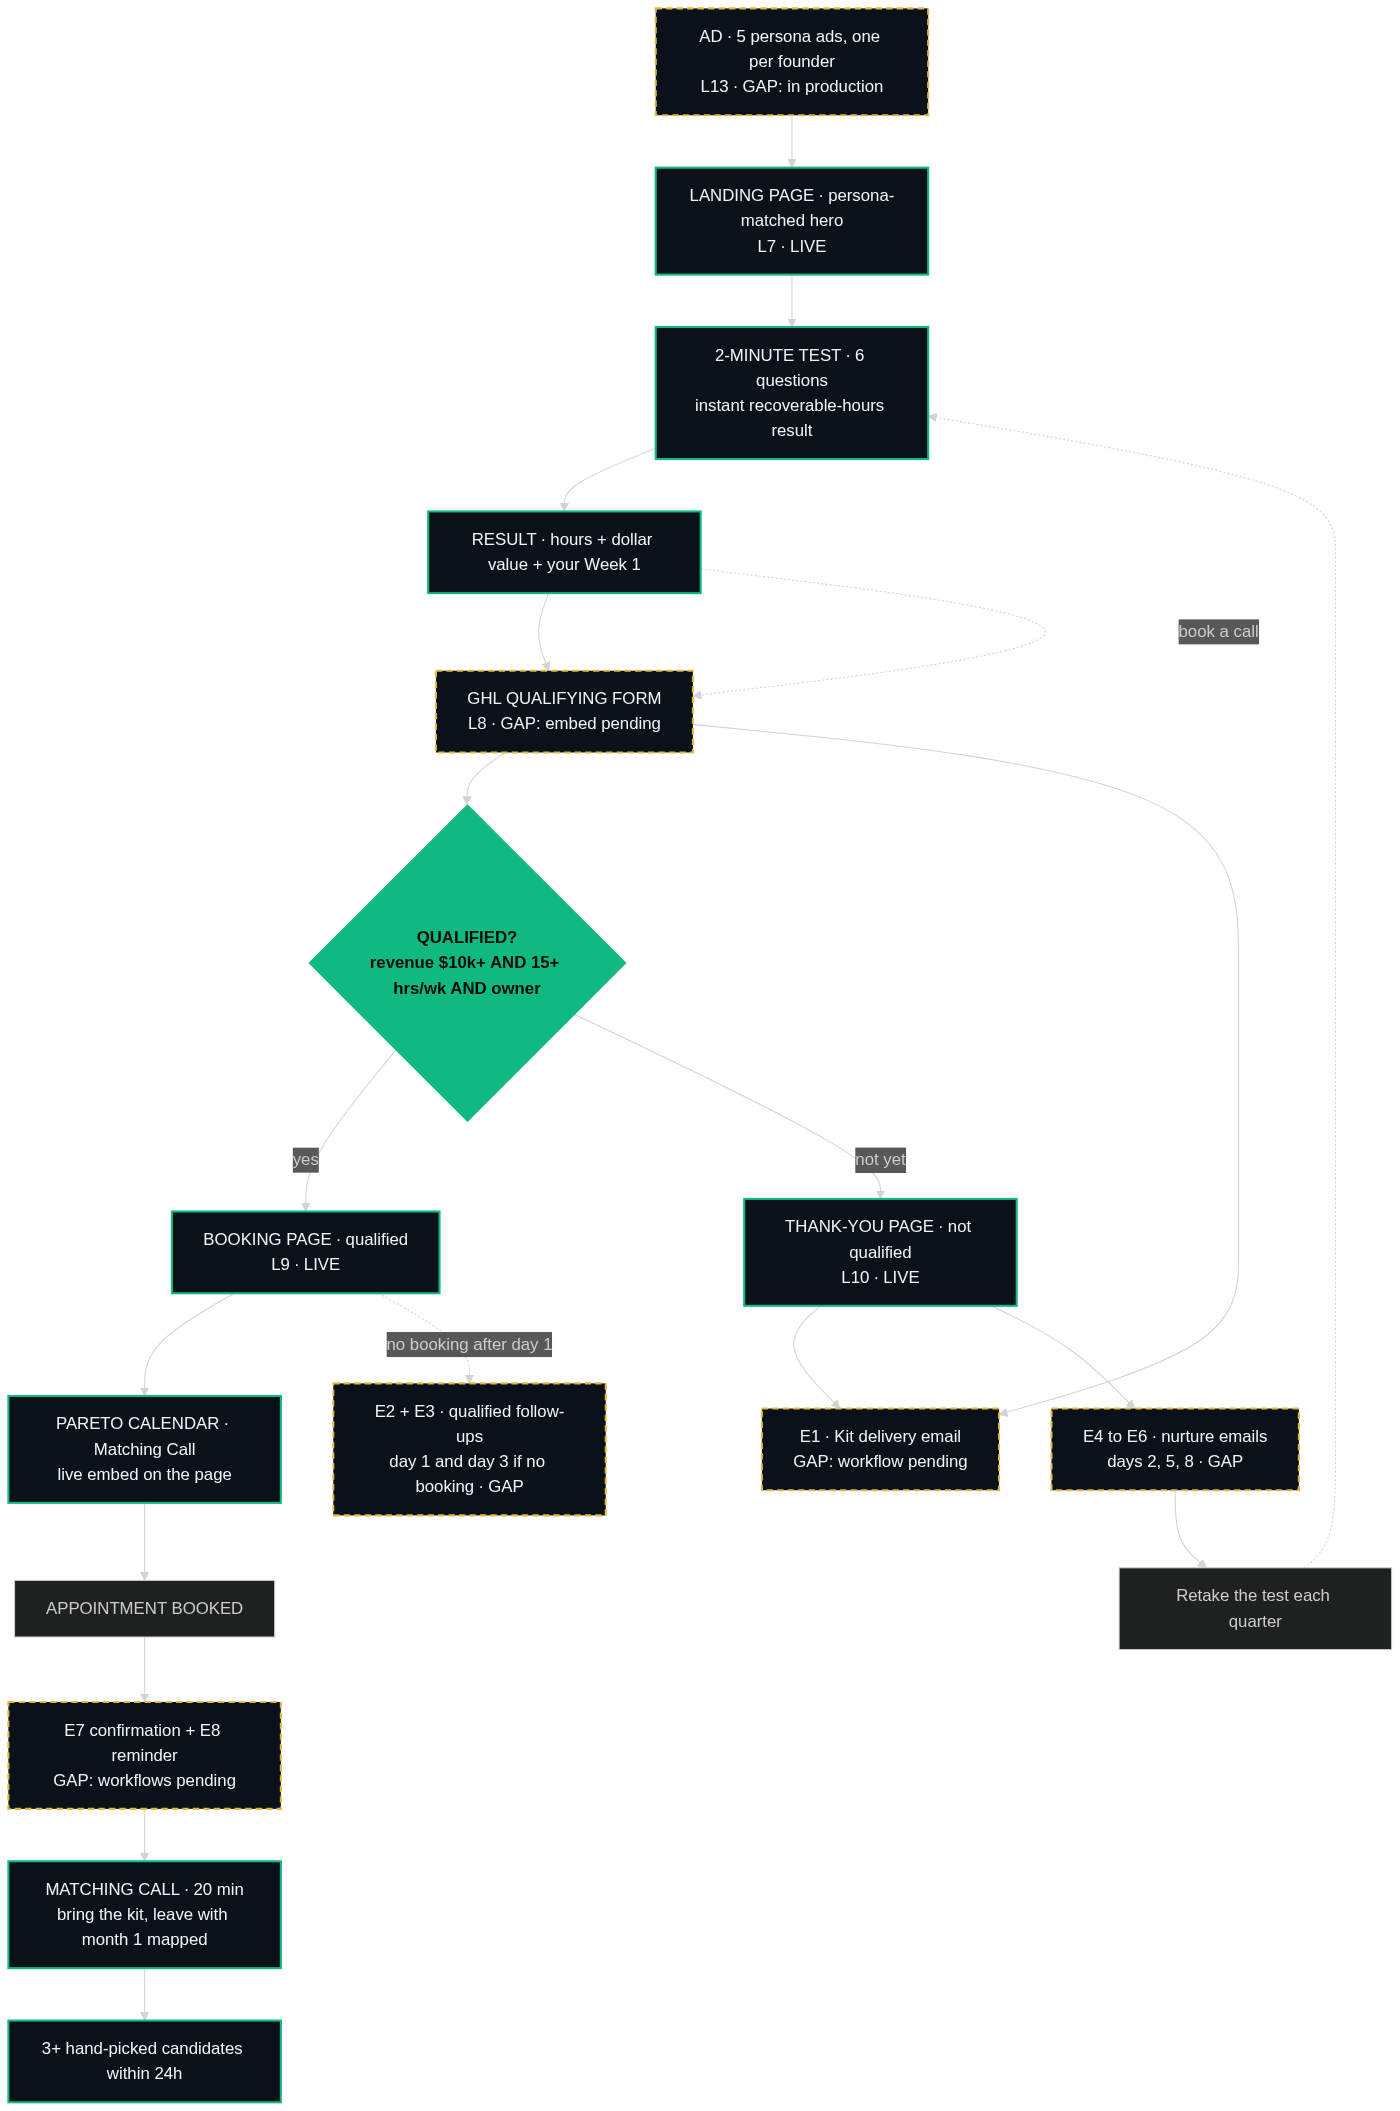
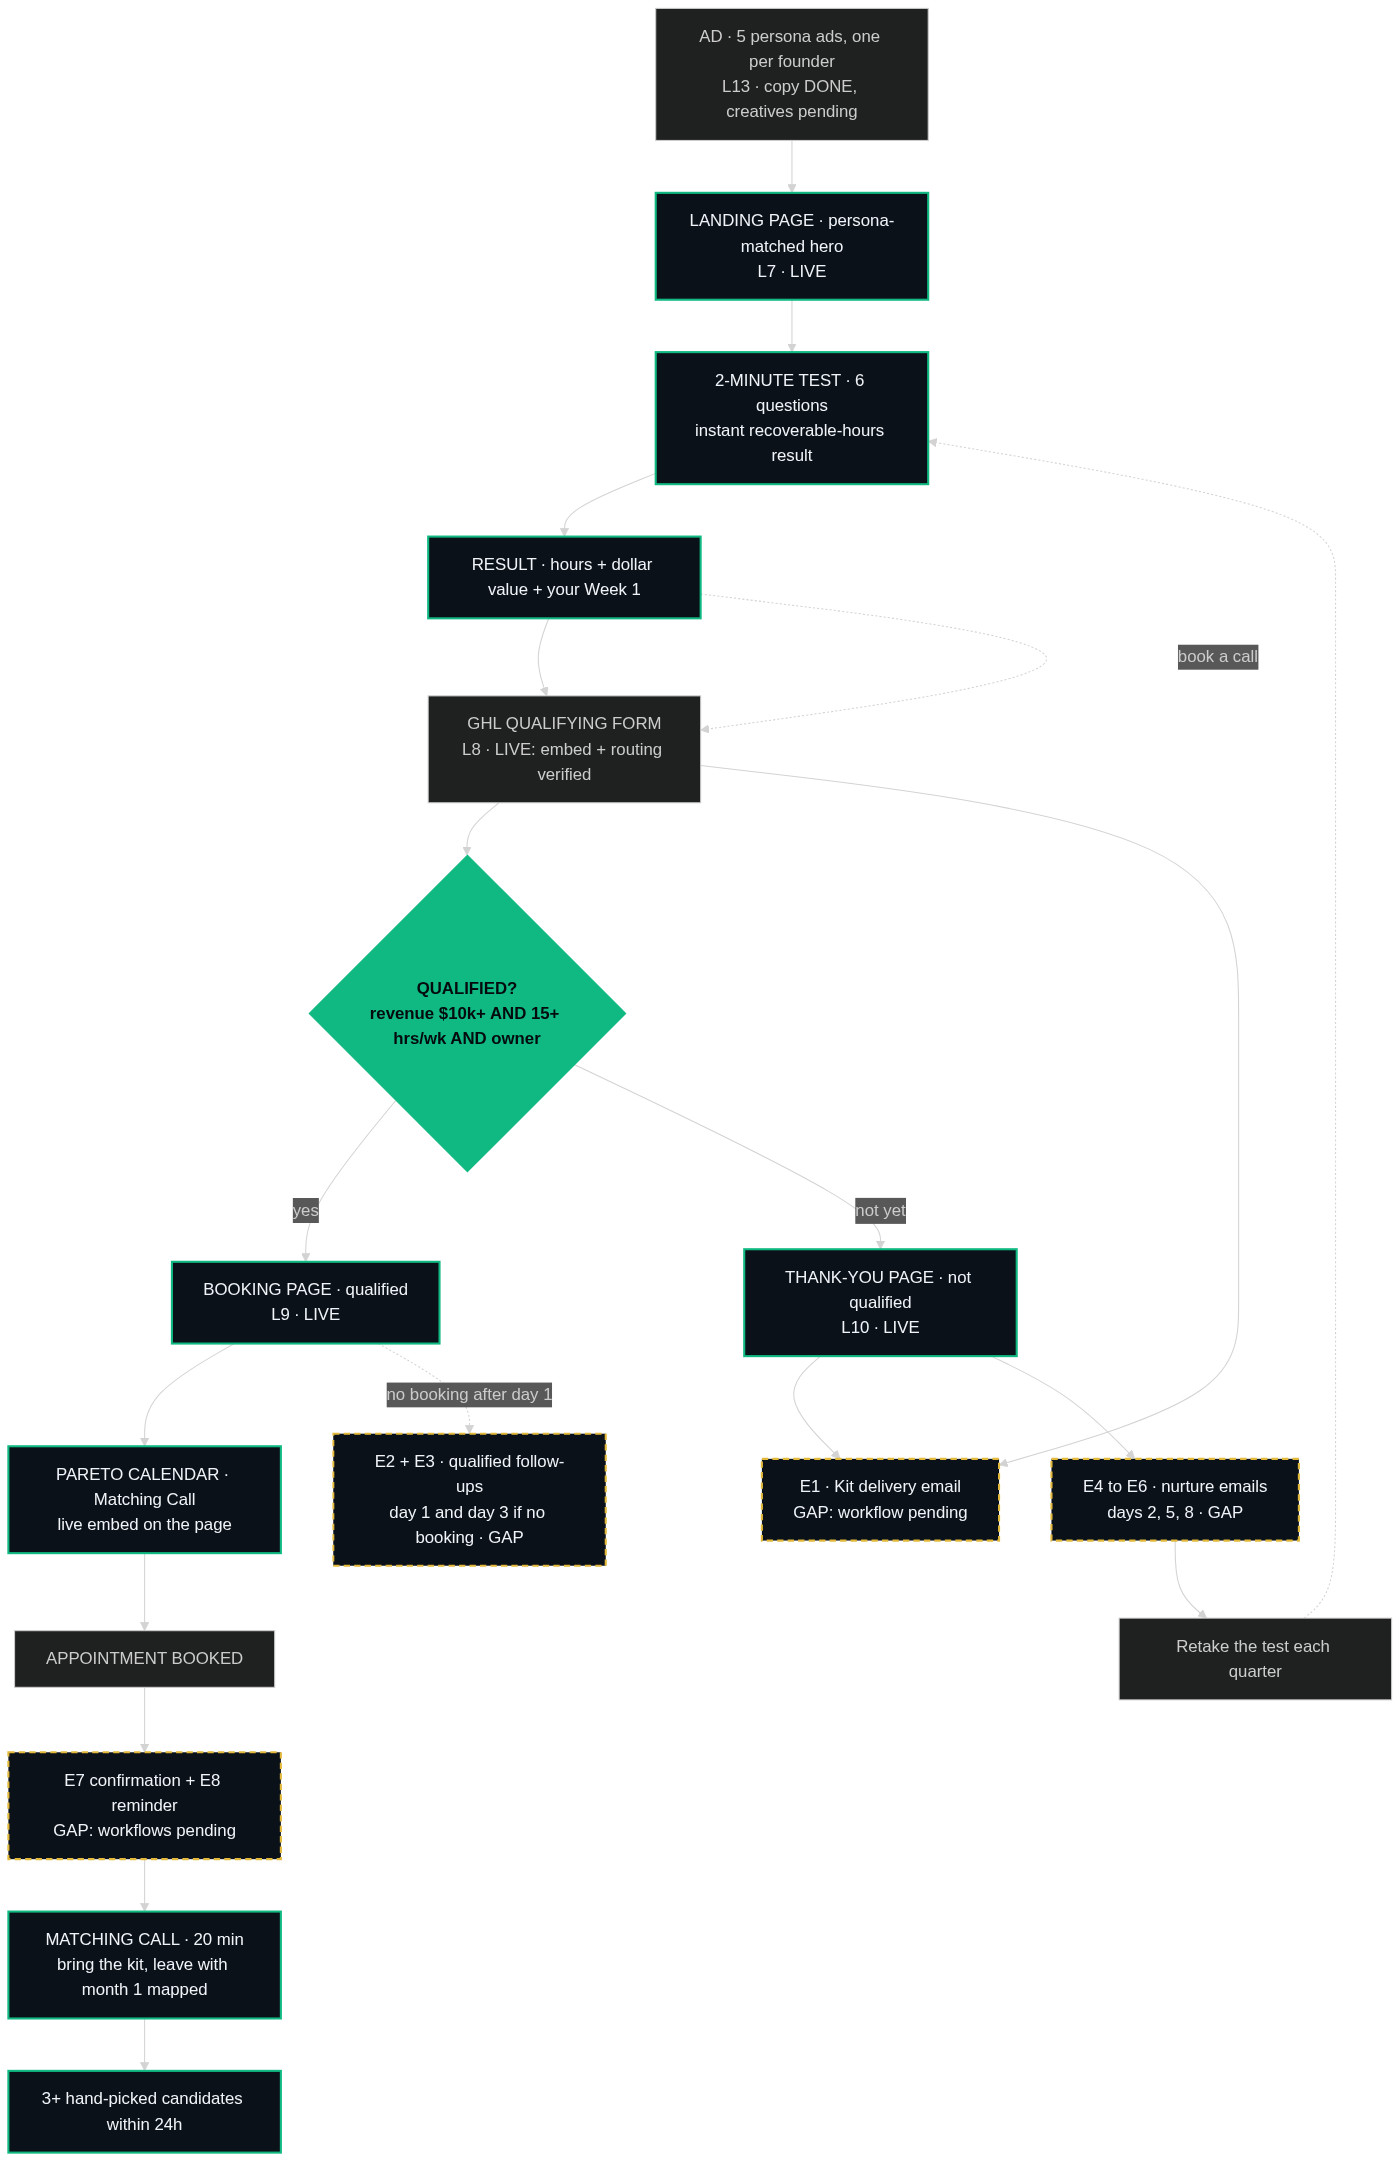
Business Map: statuses current (L8 live, L13 copy done)

diff --git a/project-docs/business-map.md b/project-docs/business-map.md
@@ -15,11 +15,11 @@ Gaps are marked honestly: 🚧 means built or specced but not live yet, nothing 
 
 ```mermaid
 flowchart TD
-    AD["AD · 5 persona ads, one per founder<br/>L13 · GAP: in production"]
+    AD["AD · 5 persona ads, one per founder<br/>L13 · copy DONE, creatives pending"]
     LP["LANDING PAGE · persona-matched hero<br/>L7 · LIVE"]
     TEST["2-MINUTE TEST · 6 questions<br/>instant recoverable-hours result"]
     RESULT["RESULT · hours + dollar value + your Week 1"]
-    FORM["GHL QUALIFYING FORM<br/>L8 · GAP: embed pending"]
+    FORM["GHL QUALIFYING FORM<br/>L8 · LIVE: embed + routing verified"]
     QUAL{"QUALIFIED?<br/>revenue $10k+ AND 15+ hrs/wk AND owner"}
     QPAGE["BOOKING PAGE · qualified<br/>L9 · LIVE"]
     CAL["PARETO CALENDAR · Matching Call<br/>live embed on the page"]
@@ -45,7 +45,7 @@ flowchart TD
     classDef gap fill:#0b1119,stroke:#e2b93b,stroke-width:2px,stroke-dasharray:6 4,color:#f0f4f8
     classDef decision fill:#10b981,stroke:#10b981,color:#050a0e,font-weight:bold
     class LP,QPAGE,CAL,TPAGE,TEST,RESULT,CALL,CAND live
-    class AD,FORM,E7E8,E1,E2E3,NUR gap
+    class E7E8,E1,E2E3,NUR gap
     class QUAL decision
 ```
 
@@ -53,16 +53,16 @@ flowchart TD
 
 | Step | Asset | Link | Status |
 |------|-------|------|--------|
-| 1. Ad (5 variants, one per persona) | Persona ad set, each links to the landing with its persona tag (`?p=dan` … `?p=sofia`) | GAP — in production this week | 🚧 Gap |
+| 1. Ad (5 variants, one per persona) | Persona ad set, each links to the landing with its persona tag (`?p=dan` … `?p=sofia`) | Copy done (project-docs/ads.md); creatives pending export | 🚧 Copy done |
 | 2. Landing page (persona-matched hero) | React app on GitHub Pages | https://francisco12-a11y.github.io/Final-Project/ | LIVE |
 | 3. 2-minute test (6 questions) | Built into the landing, section #quiz | https://francisco12-a11y.github.io/Final-Project/#quiz | LIVE |
 | 4. Test result (hours, dollars, Week 1) | Same page, instant, no email needed | same URL as step 3 | LIVE |
-| 5. Book a call → qualifying form | GHL form embed (spec: GHL Build Spec PDF, section 4) | GAP — Fran building in GHL | 🚧 Gap |
-| 6. Qualification screen | Form conditional redirect (revenue $10k+ AND 15+ hrs AND owner) | Rules in the GHL Build Spec PDF, section 4 | 🚧 Gap |
+| 5. Book a call → qualifying form | GHL form FB-Qualifying, embedded on the landing (dark styled via Custom CSS) | Same URL as step 2, section #get-audit | ✅ LIVE |
+| 6. Qualification screen | Routing runs on the page: quiz answers + the form's formSubmitted event decide the branch | Same URL as step 2 | ✅ LIVE |
 | 7a. Qualified → booking page | Booking page with the real Pareto calendar | https://francisco12-a11y.github.io/Final-Project/qualified.html | LIVE |
 | 7b. Not qualified → thank-you page | Thank-you page: kit delivered, no booking link | https://francisco12-a11y.github.io/Final-Project/thank-you.html | LIVE |
 | 8. Lead magnet | The Right Hand Starter Kit PDF | https://francisco12-a11y.github.io/Final-Project/lead-magnet/FP_FranciscoBuiras_L06_RightHandStarterKit.pdf | LIVE |
-| 9. Opt-in workflow (deliver, tag, opportunity, notify) | GHL workflow 1 + email E1 | Build spec PDF, section 5 | 🚧 Gap |
+| 9. Opt-in + pipeline + workflows | GHL workflows + pipeline (Fran: confirmed working Oct 6) | Build spec PDF, sections 2 and 5–8 | ✅ LIVE (per Fran) |
 | 10. Qualified follow-up (2 emails if no booking) | GHL workflow 2 + emails E2, E3 | Build spec PDF, section 6 | 🚧 Gap |
 | 11. Nurture (3 emails) | GHL workflow 3 + emails E4, E5, E6 | Build spec PDF, section 7 | 🚧 Gap |
 | 12. Booking confirmation + reminder | GHL workflow 4 + emails E7, E8 | Build spec PDF, section 8 | 🚧 Gap |
@@ -71,10 +71,9 @@ flowchart TD
 
 ## Honest gaps, in one list
 
-- **L13 Ads**: 5 persona ads in production (copy + imagery this week).
-- **L8 Form + workflows + emails in GHL**: fully specified in the GHL Build Spec PDF; build in progress.
-- **L11/L12 screenshots**: produced by the end-to-end test after the GHL build.
-- **L14 Imagery**: page placeholders live; generation prompts this week.
+- **L13 Ads**: copy done; creatives not exported yet.
+- **L11/L12 screenshots**: end-to-end test screenshots still to be captured into the Drive folders.
+- **L14 Imagery**: page placeholders live; generation in progress.
 - Everything marked LIVE above is clickable and opens without a login.
 
 ## Source of truth
